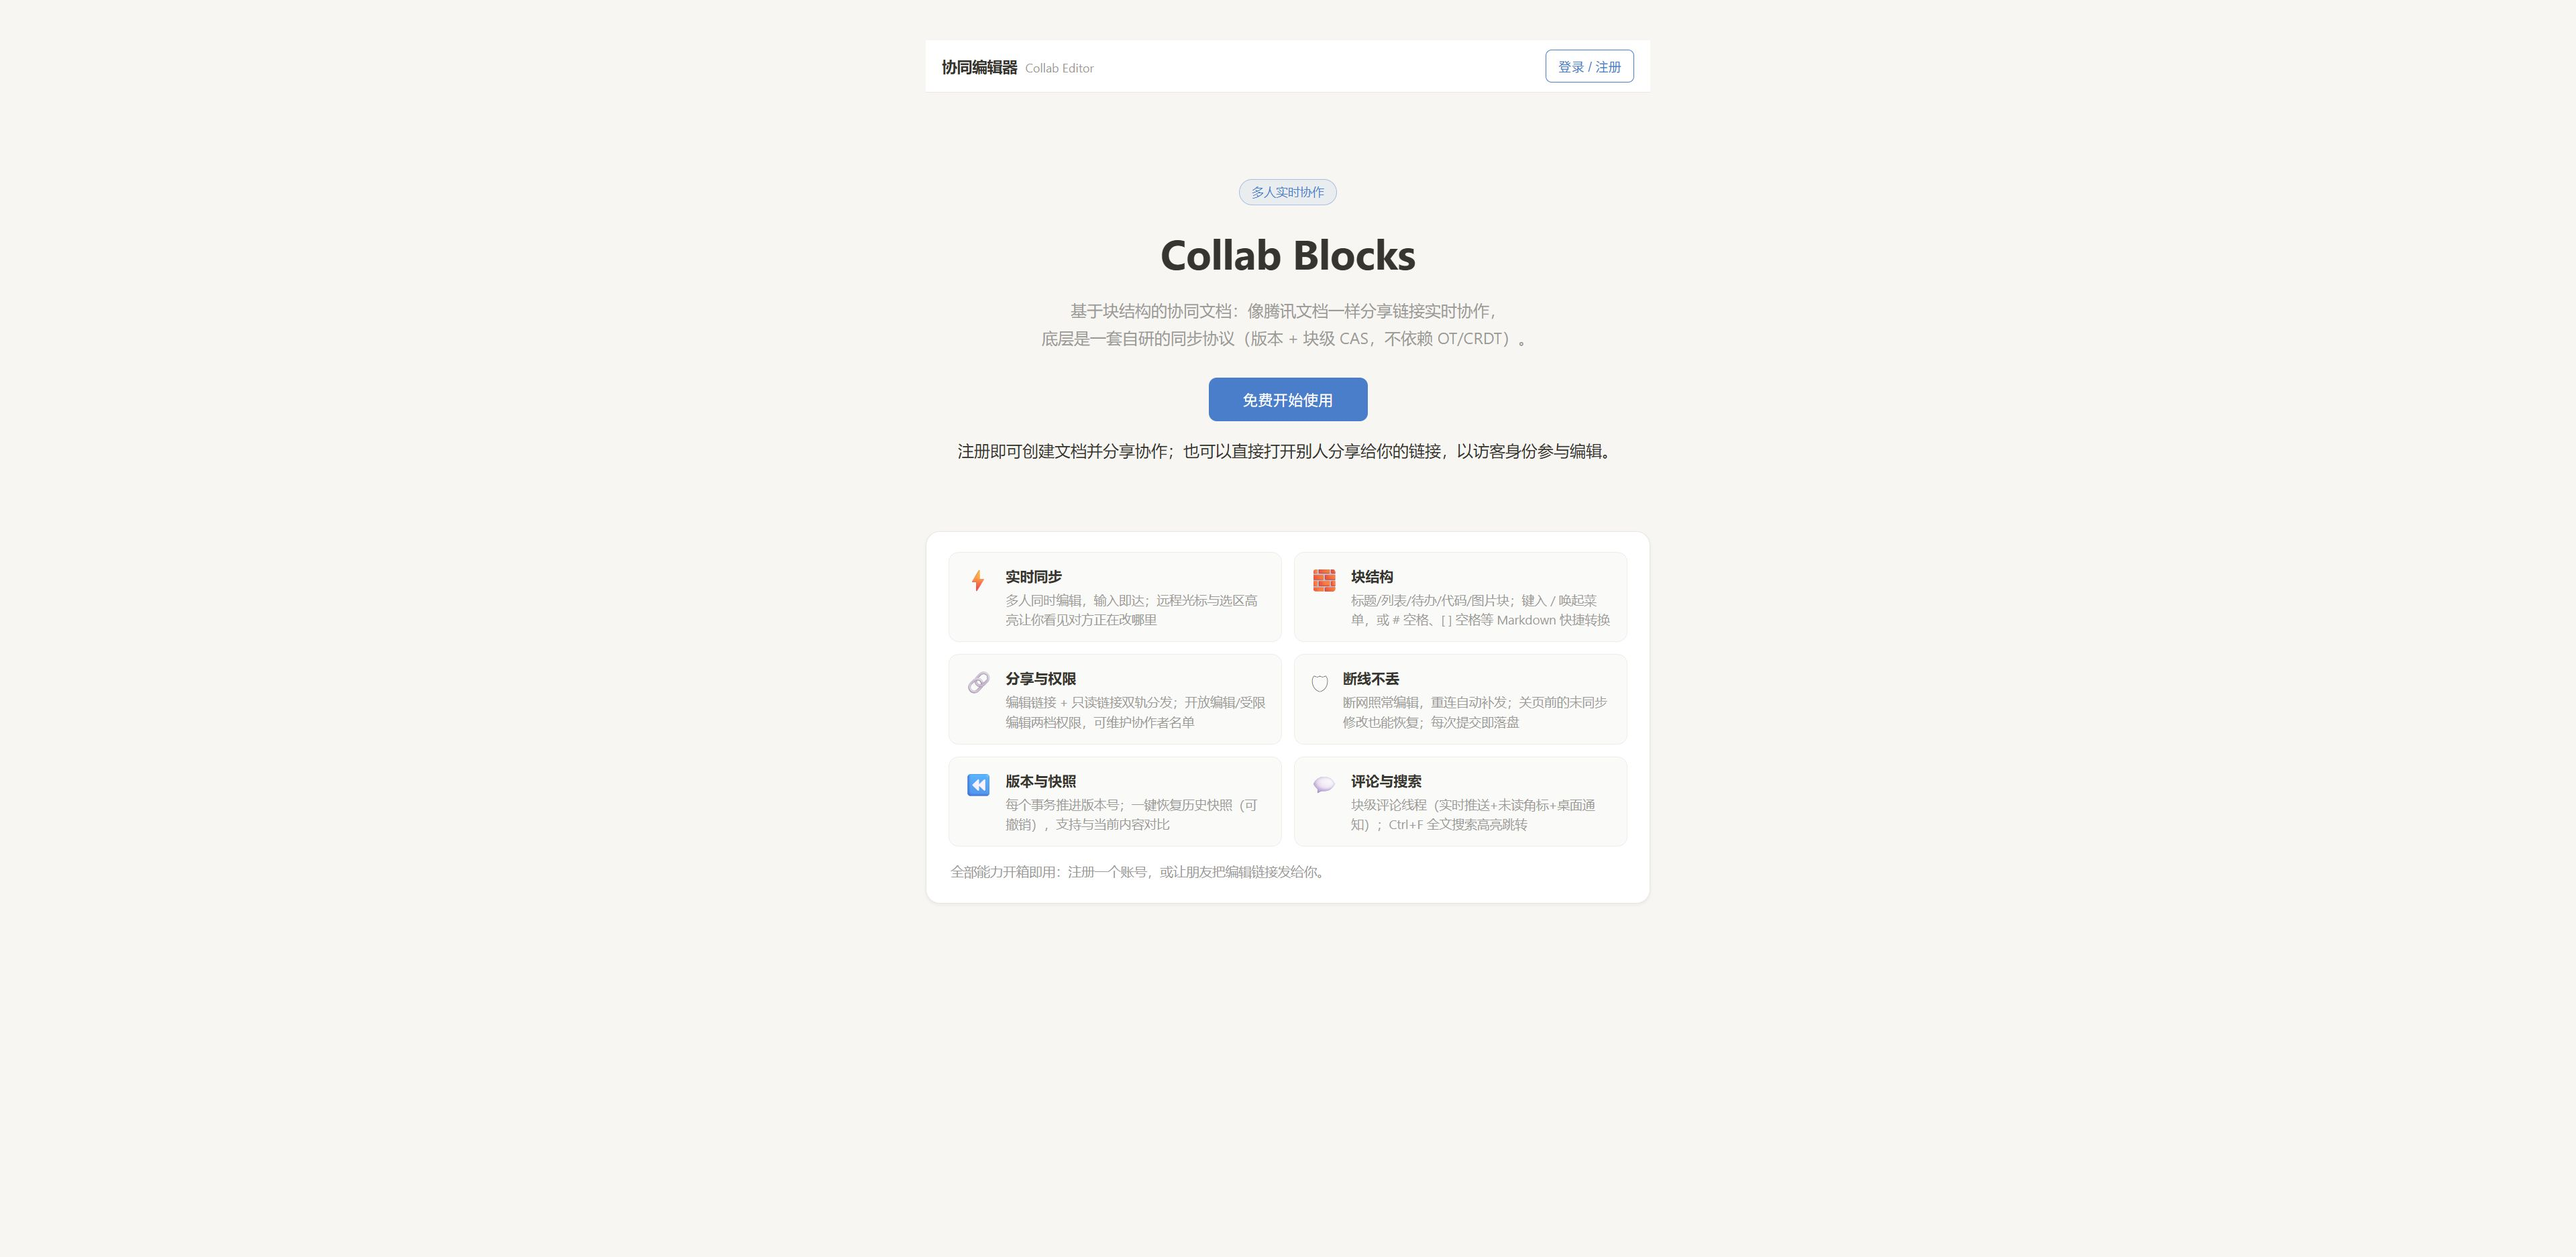
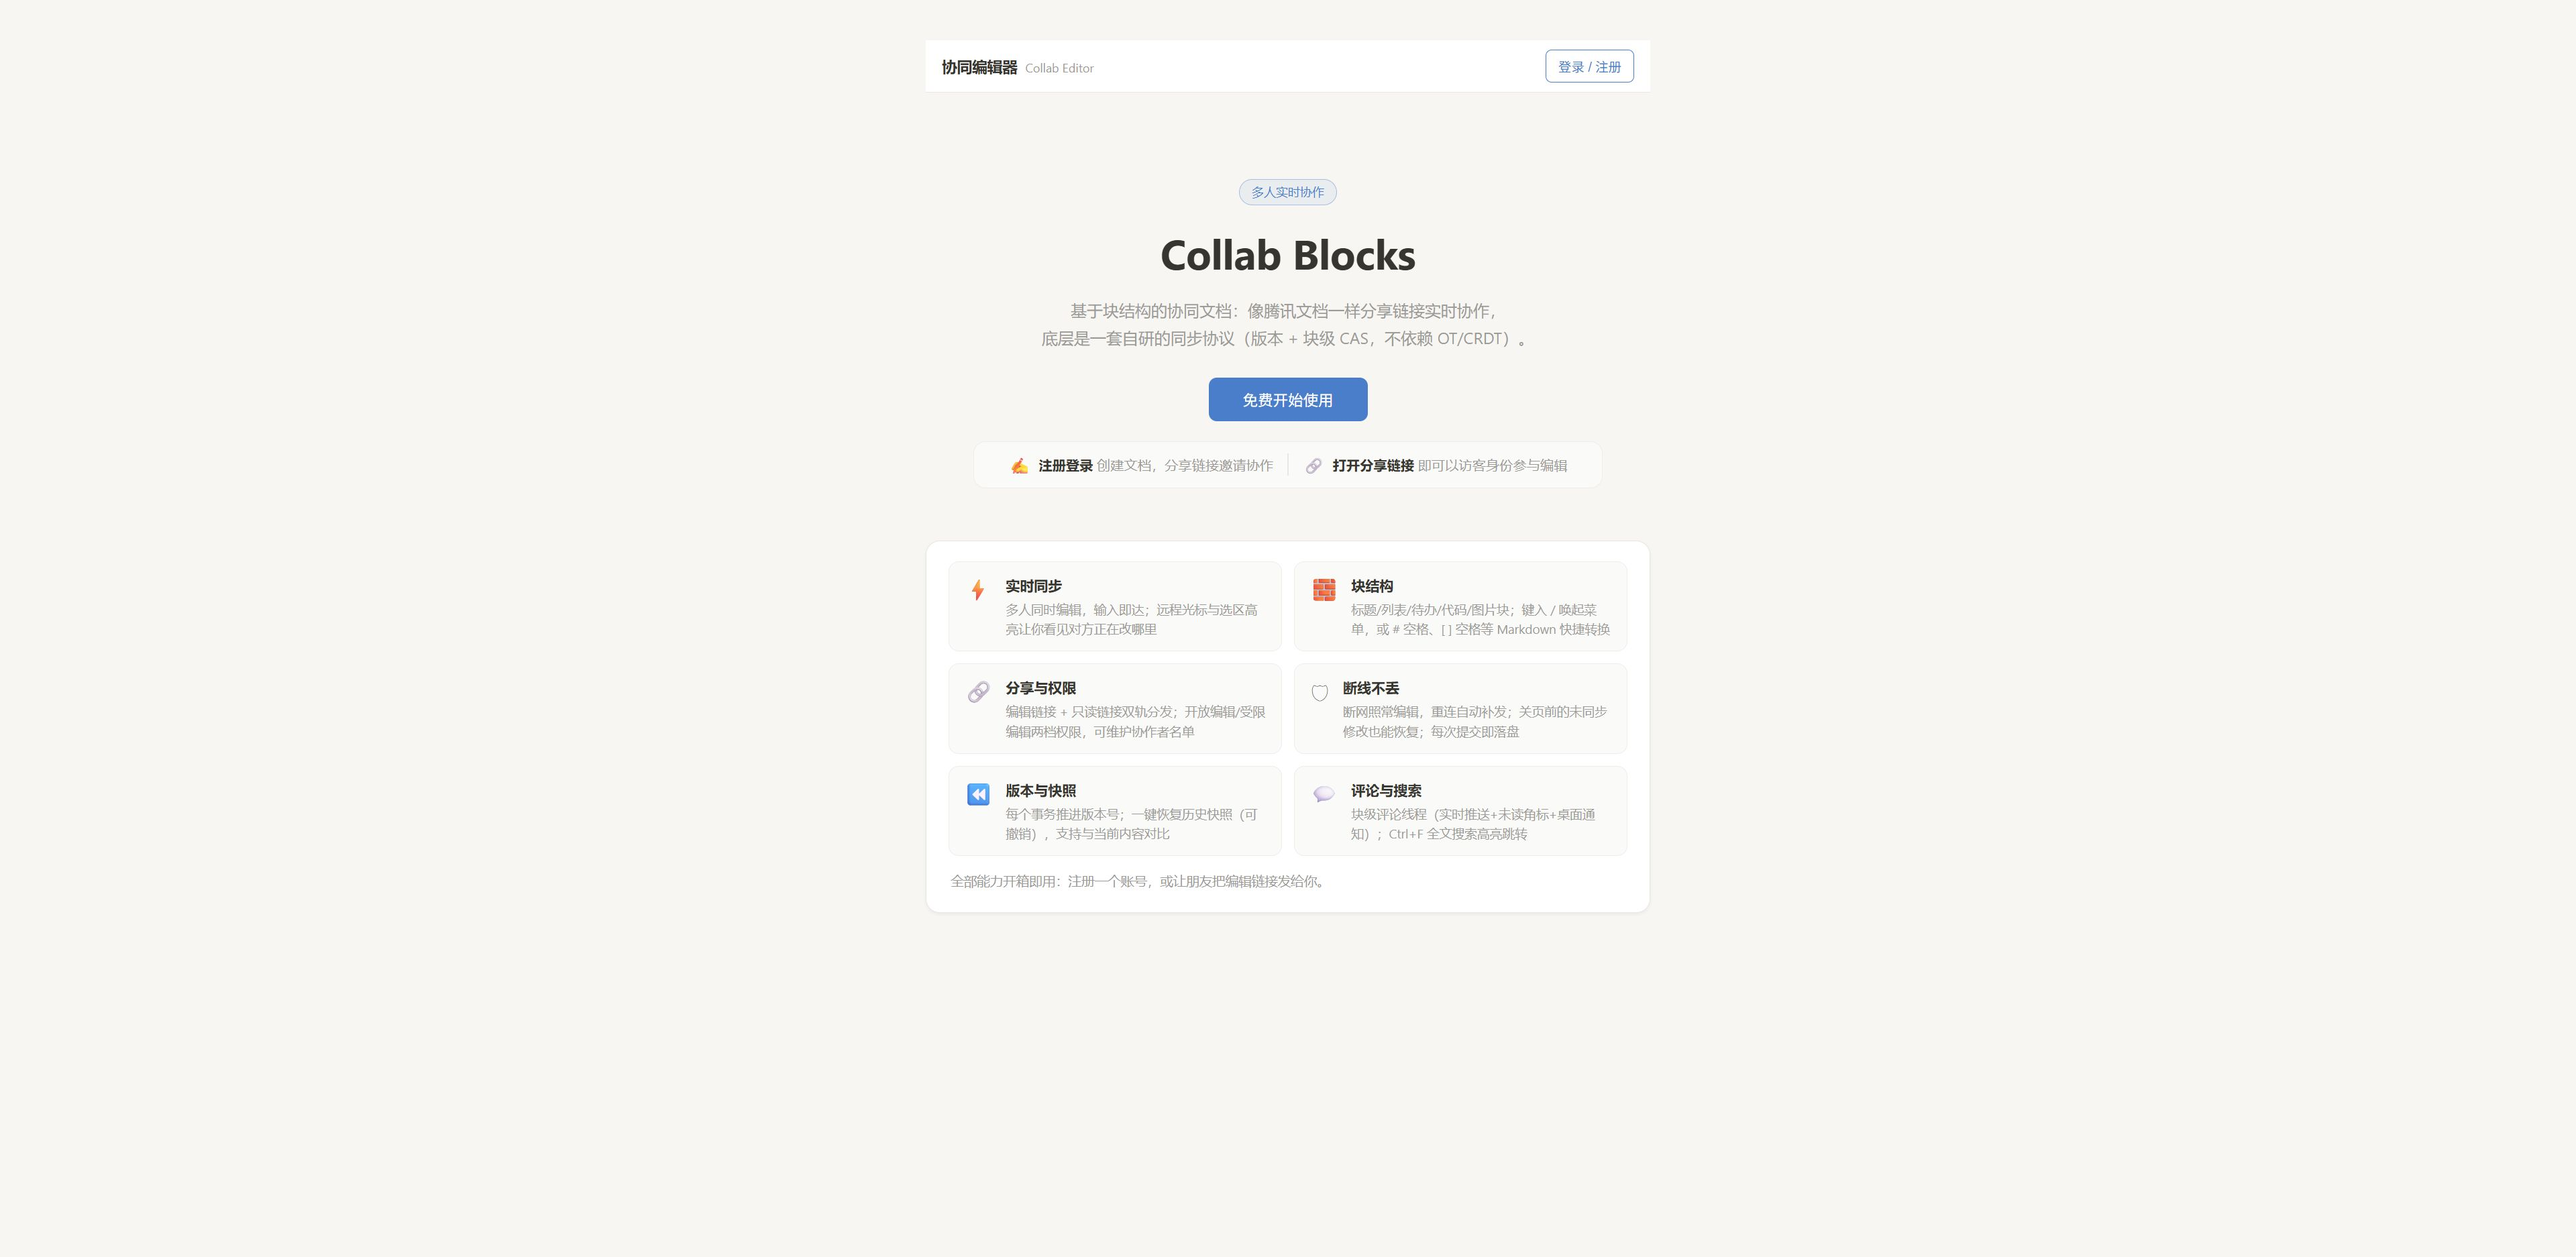
ui: 美化未登录首页提示文案——两条图标卡片替代生硬段落
- 「注册即可创建文档并分享协作；也可以直接打开别人分享给你的链接…」
  改为两条带图标的横向卡片：✍ 注册登录 创建文档，分享链接邀请协作 | 🔗 打开分享链接 即可以访客身份参与编辑
- 圆角浅底卡片 + 图标 + 竖线分隔 + 关键词加粗，视觉柔和
- 重拍 guest-home 截图
- 52/52 测试全绿

Changed region(s): [[0.375, 0.4333, 0.625, 0.588], [0.375, 0.619, 0.625, 0.7118], [0.375, 0.3404, 0.625, 0.3714]]

diff --git a/client/src/home.ts b/client/src/home.ts
@@ -108,7 +108,17 @@ export async function mountHome(root: HTMLElement) {
         <h1>Collab Blocks</h1>
         <p class="home-hero-sub">基于块结构的协同文档：像腾讯文档一样分享链接实时协作，<br>底层是一套自研的同步协议（版本 + 块级 CAS，不依赖 OT/CRDT）。</p>
         <button class="btn home-cta">免费开始使用</button>
-        <p class="home-dim">注册即可创建文档并分享协作；也可以直接打开别人分享给你的链接，以访客身份参与编辑。</p>
+        <div class="home-hero-tips">
+          <div class="home-hero-tip">
+            <span class="home-hero-tip-icon">✍</span>
+            <span><b>注册登录</b> 创建文档，分享链接邀请协作</span>
+          </div>
+          <div class="home-hero-tip-divider"></div>
+          <div class="home-hero-tip">
+            <span class="home-hero-tip-icon">🔗</span>
+            <span><b>打开分享链接</b> 即可以访客身份参与编辑</span>
+          </div>
+        </div>
       </div>
       <section class="home-intro guest-intro"></section>`;
     main.querySelector<HTMLElement>(".home-cta")!.addEventListener("click", () => openAuthModal("register"));

diff --git a/client/src/styles.css b/client/src/styles.css
@@ -734,6 +734,41 @@ html.dark .offline-banner {
   filter: brightness(1.08);
   transform: translateY(-1px);
 }
+
+/* Hero 底部两条使用提示（图标 + 分隔线的卡片式行） */
+.home-hero-tips {
+  display: inline-flex;
+  align-items: center;
+  gap: 0;
+  margin-top: 20px;
+  padding: 10px 20px;
+  background: var(--input-bg);
+  border: 1px solid var(--border-soft);
+  border-radius: 12px;
+}
+.home-hero-tip {
+  display: flex;
+  align-items: center;
+  gap: 8px;
+  font-size: 13.5px;
+  color: var(--text-dim);
+  padding: 0 14px;
+}
+.home-hero-tip b {
+  color: var(--text);
+  font-weight: 600;
+}
+.home-hero-tip-icon {
+  font-size: 16px;
+  flex: none;
+}
+.home-hero-tip-divider {
+  width: 1px;
+  height: 22px;
+  background: var(--border);
+  flex: none;
+}
+
 .guest-intro {
   margin-top: 6px;
 }
